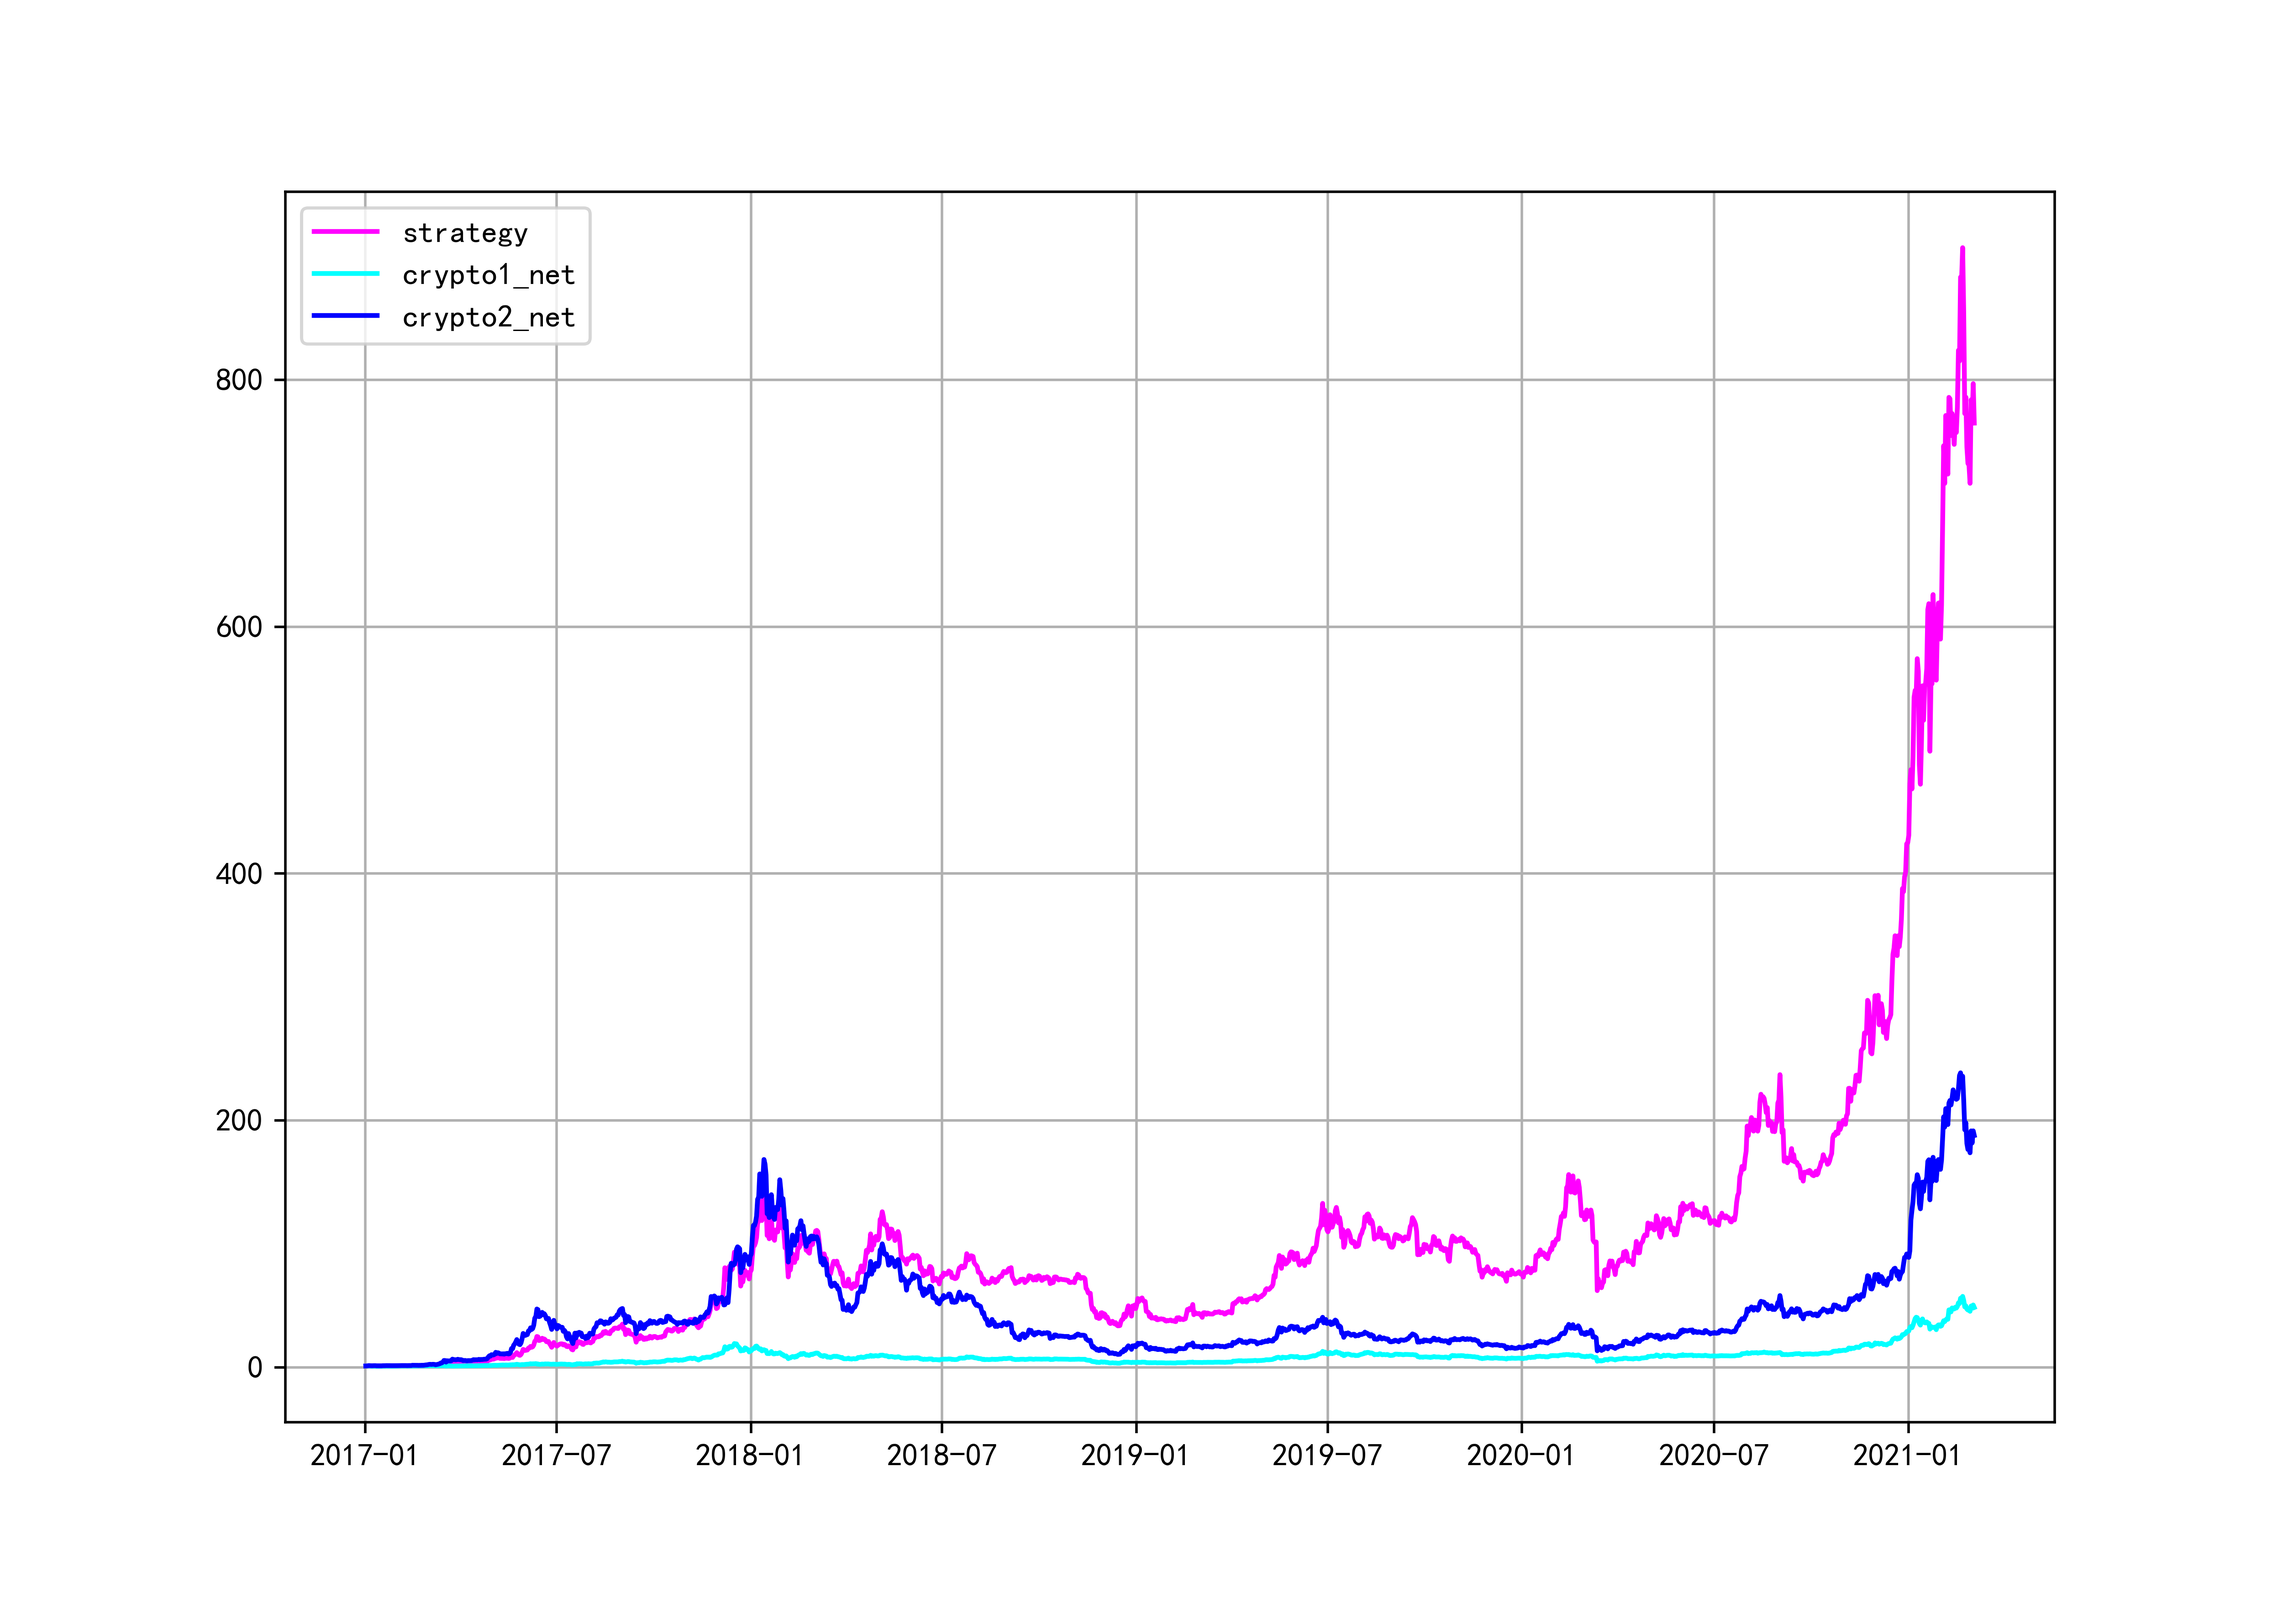
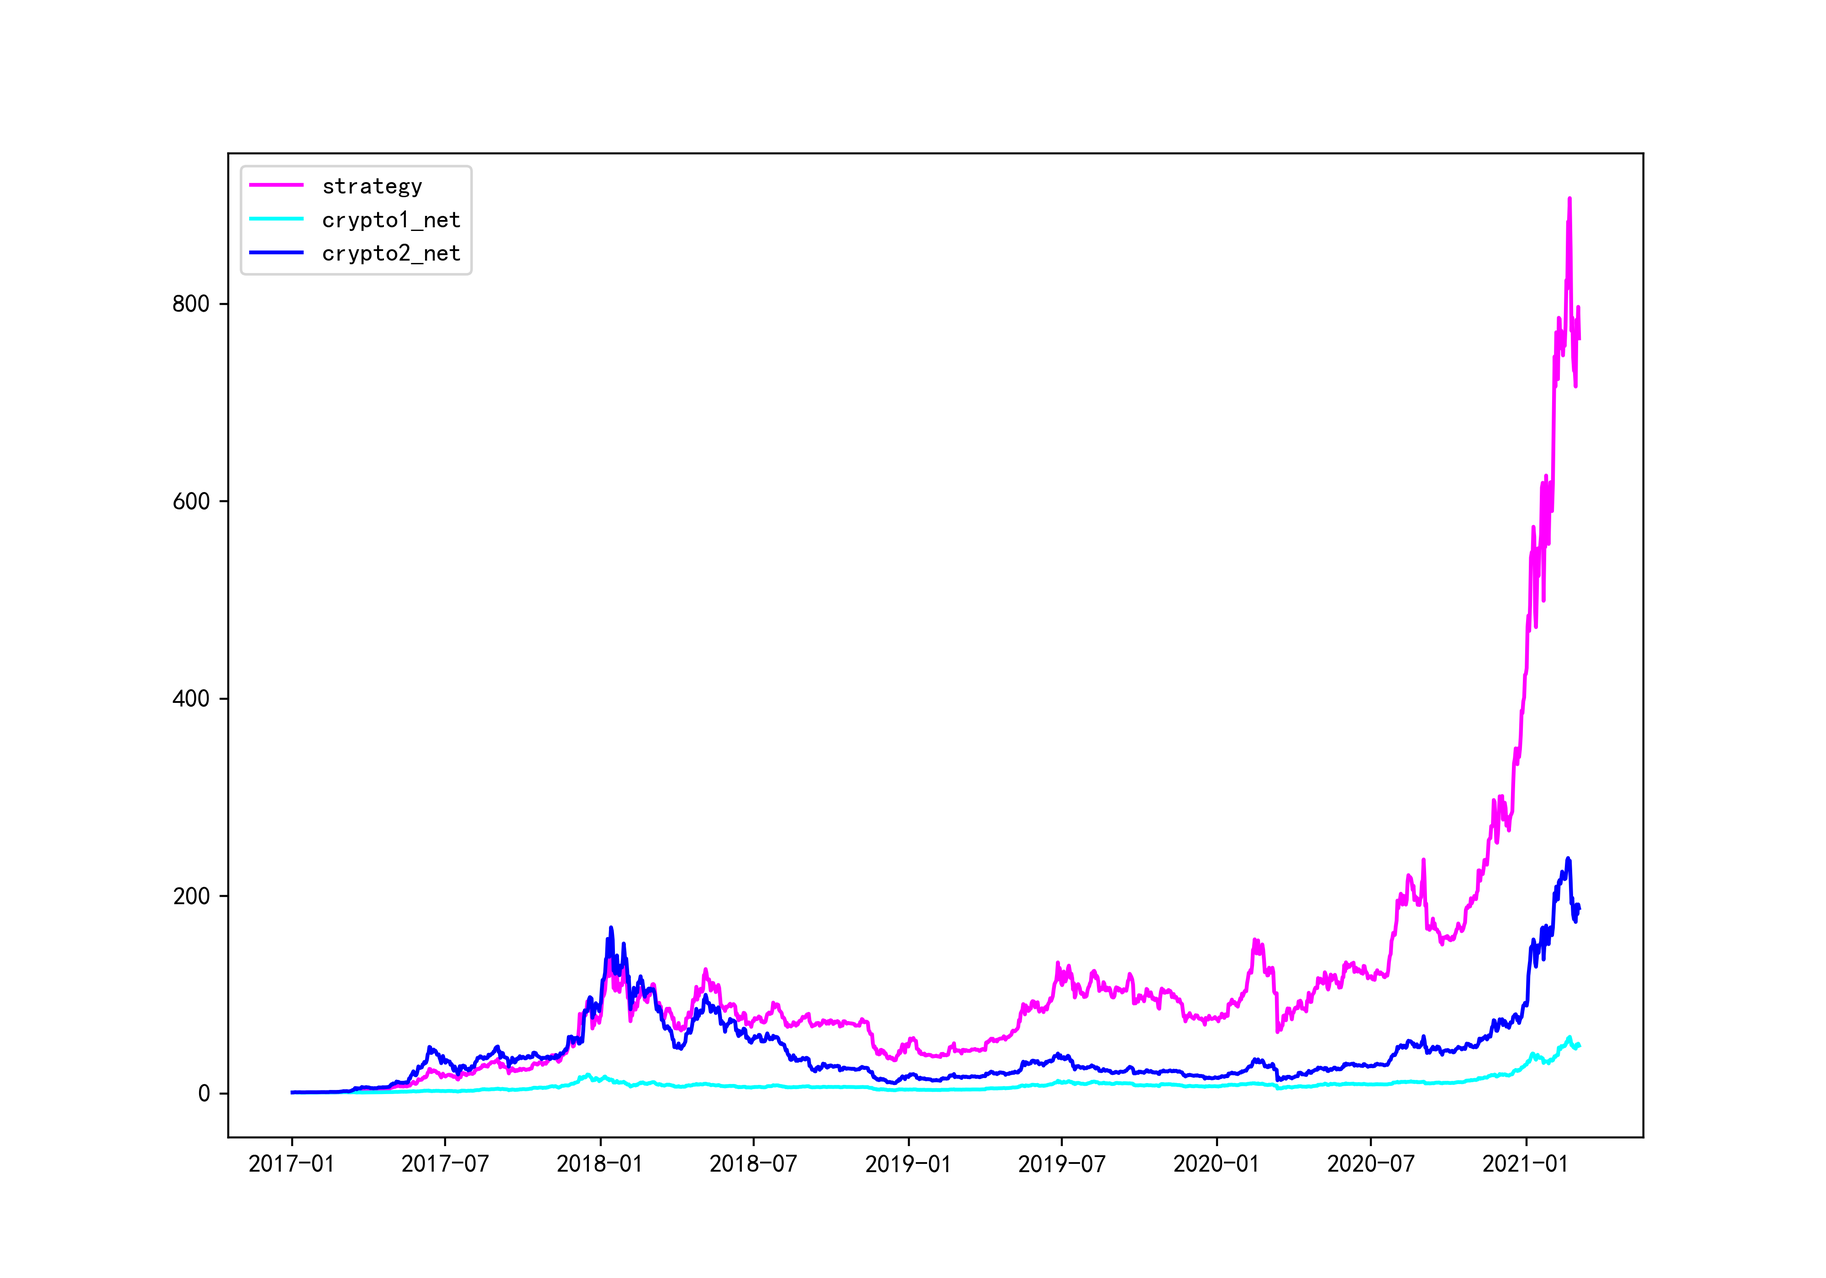
updated graph

diff --git a/3_rotation_trading/rotation_v1.py b/3_rotation_trading/rotation_v1.py
@@ -77,8 +77,7 @@ plt.plot(df['candle_end_time'], df['strategy_net'], label='strategy', color='mag
 plt.plot(df['candle_end_time'], df['coin1_net'], label='crypto1_net', color='cyan')
 plt.plot(df['candle_end_time'], df['coin2_net'], label='crypto2_net', color='b')
 plt.legend(loc=0)
-plt.grid(True)
-plt.savefig("./images/rotation_v1.png", dpi=500)
+plt.savefig("./images/rotation_v1.png", dpi=400)
 
 # 保存文件
 print(df.tail(50))
